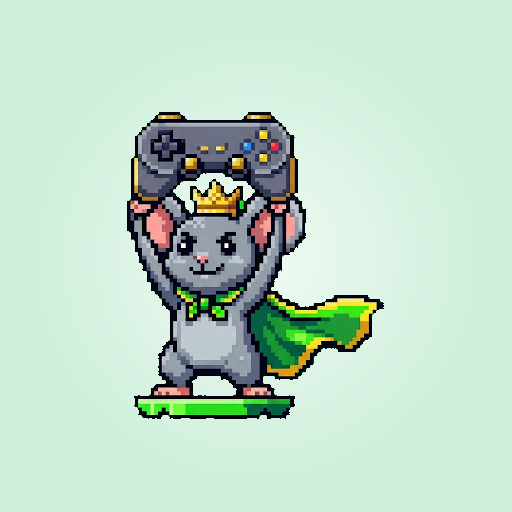
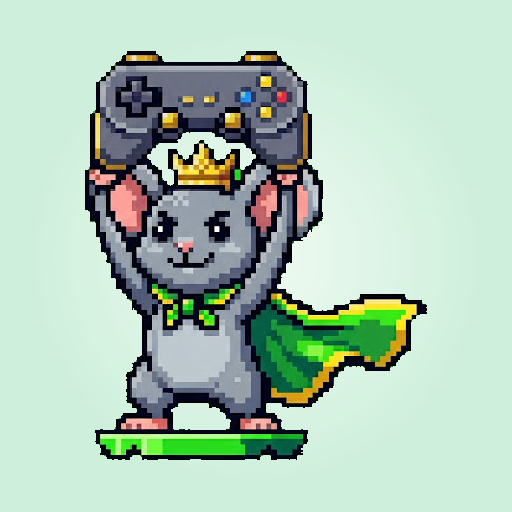
Mascote maior no ícone do app
Claude-Session: https://claude.ai/code/session_01G7zC1cdkjy78yWyHSZkE2g

Changed region(s): [[0.1562, 0.0938, 0.8438, 0.9062]]

diff --git a/sw.js b/sw.js
@@ -1,4 +1,4 @@
-const CACHE='corrida-v101';
+const CACHE='corrida-v102';
 const ARQS=['./','./index.html','./manifest.json','./icon-192.png','./icon-512.png'];
 self.addEventListener('install',e=>{ e.waitUntil(caches.open(CACHE).then(c=>c.addAll(ARQS.map(u=>new Request(u,{cache:'reload'}))))); self.skipWaiting(); });
 self.addEventListener('activate',e=>{ e.waitUntil(caches.keys().then(ks=>Promise.all(ks.filter(k=>k!==CACHE).map(k=>caches.delete(k))))); self.clients.claim(); });
